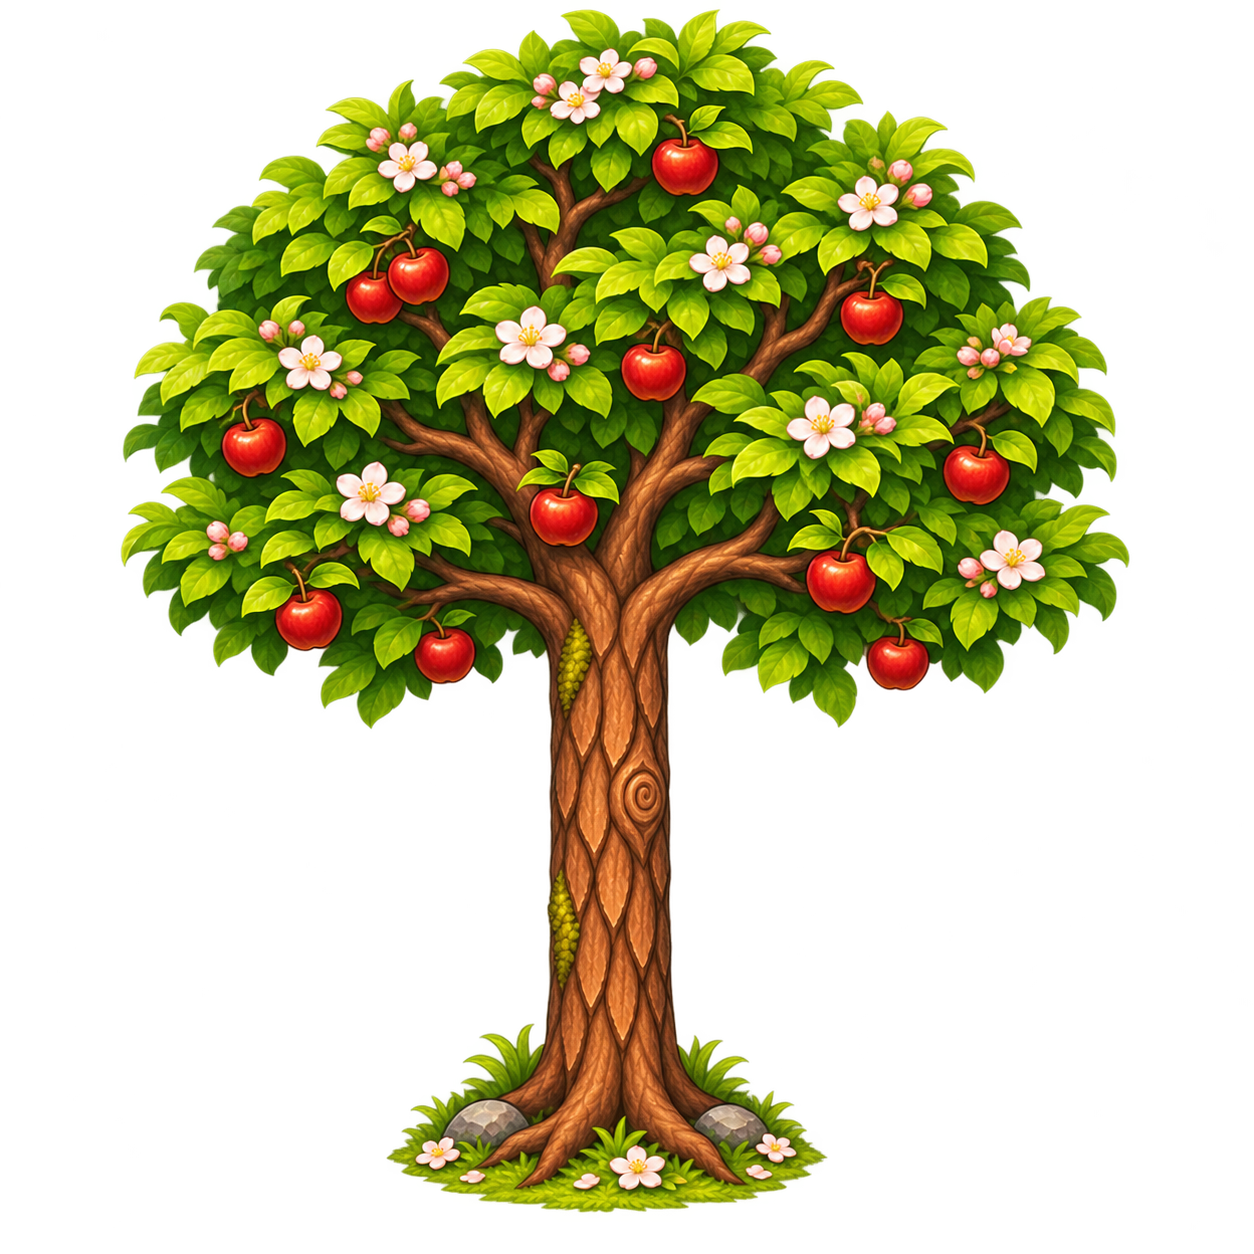
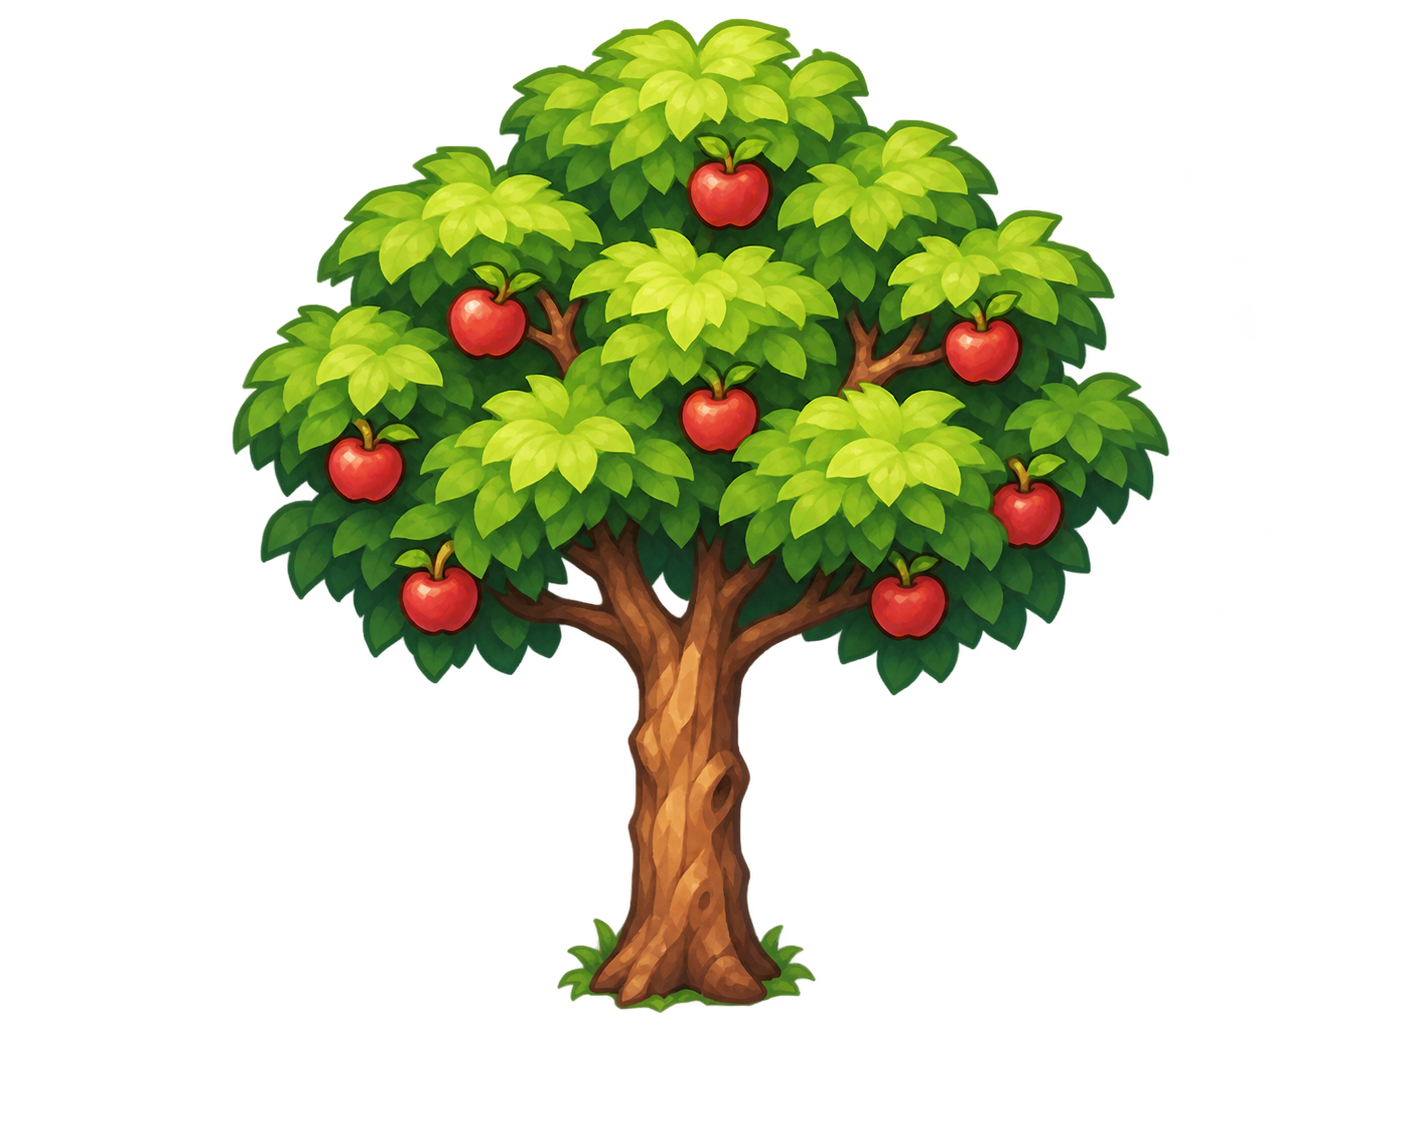
Macieira nova (com e sem maçãs) e florestas misturadas (v0.90.0)
Troca a macieira por 3 formas, carregada e colhida com arte própria na mesma escala. O mapa da Cidade 1 passa a
misturar carvalho, bétula, cerejeira e macieira nos dois biomas (altTrees; os sorteios anteriores não mudam, então
nada muda de lugar, só a espécie de algumas árvores) e nas árvores da cidade (sem macieira: protegida).

Claude-Session: https://claude.ai/code/session_01KGdgomm438trDHTLPLqJmv

diff --git a/src/world/trees.test.ts b/src/world/trees.test.ts
@@ -102,24 +102,31 @@ describe('Árvores adultas (carvalho, macieira, cerejeira; sem crescimento desde
     expect(applyAction(w, parseAction({ kind: 'pick', x, y })!)).toBe(true);
   });
 
-  it('Campos misturam macieiras e bétulas aos carvalhos (a macieira cai onde sempre caiu)', () => {
-    expect(BIOMES.meadow.altTrees).toEqual([{ id: Block.APPLE_TREE, share: 1 / 6 }, { id: Block.BIRCH_TREE, share: 1 / 5 }]);
+  it('o mundo mistura carvalho, bétula, cerejeira e macieira em qualquer bioma (a macieira e a bétula caem onde sempre caíram)', () => {
+    const all4 = new Set<number>([Block.OAK_TREE, Block.BIRCH_TREE, Block.SAKURA_TREE, Block.APPLE_TREE]);
+    for (const b of [BIOMES.meadow, BIOMES.sakura]) {
+      expect(new Set([b.tree, ...(b.altTrees ?? []).map((t) => t.id)])).toEqual(all4);
+      expect(b.altTrees!.slice(0, 2)).toEqual([{ id: Block.APPLE_TREE, share: 1 / 6 }, { id: Block.BIRCH_TREE, share: 1 / 5 }]);
+    }
     const w = new World(42);
-    let oak = 0, apple = 0, birch = 0;
-    for (let y = -150; y < 150; y++) {
-      for (let x = -150; x < 150; x++) {
+    const n = new Map<number, number>();
+    for (let y = -250; y < 250; y++) {
+      for (let x = -250; x < 250; x++) {
         const id = w.getObject(x, y);
-        if (id === Block.OAK_TREE) oak++;
-        if (id === Block.APPLE_TREE) apple++;
-        if (id === Block.BIRCH_TREE) birch++;
+        if (all4.has(id)) n.set(id, (n.get(id) ?? 0) + 1);
       }
     }
-    const all = oak + apple + birch;
-    expect(apple / all).toBeGreaterThan(0.1);
-    expect(apple / all).toBeLessThan(0.25);
-    expect(birch / all).toBeGreaterThan(0.1);
-    expect(birch / all).toBeLessThan(0.25);
-    expect(oak).toBeGreaterThan(apple);
+    const total = [...n.values()].reduce((a, b) => a + b, 0);
+    for (const id of all4) expect((n.get(id) ?? 0) / total, `espécie ${id}`).toBeGreaterThan(0.08);
+    expect((n.get(Block.APPLE_TREE) ?? 0) / total).toBeLessThan(0.25);
+  });
+
+  it('as árvores da cidade são cerejeira, bétula e carvalho (sem macieira: protegida, não dá para colher)', () => {
+    const all4 = new Set<number>([Block.OAK_TREE, Block.BIRCH_TREE, Block.SAKURA_TREE, Block.APPLE_TREE]);
+    const t = new World(42).town!;
+    const seen = new Set<number>();
+    for (const id of t.objects) if (all4.has(id)) seen.add(id);
+    expect(seen).toEqual(new Set([Block.OAK_TREE, Block.BIRCH_TREE, Block.SAKURA_TREE]));
   });
 
   it('bétula: derrubada dá 2–3 Toras de Bétula; tora vira 2 tábuas; as duas são madeira (batente) e substituem a água', () => {

diff --git a/src/render/textures.ts b/src/render/textures.ts
@@ -520,13 +520,13 @@ function waterTile(variant: number): HTMLCanvasElement {
 // ---------------------------------------------------------------- árvores e enfeites
 
 /** Quadros de cada tira de árvore adulta (`scripts/process-trees.py`): a variante de cada árvore é sorteada pela posição. */
-const TREE_FRAMES = { oak: 3, apple: 2, cherry: 3, birch: 3 } as const;
+const TREE_FRAMES = { oak: 3, apple: 3, appleBare: 3, cherry: 3, birch: 3 } as const;
 /** Largura da árvore em células de mundo (o quadro tem a árvore mais larga da espécie de ponta a ponta). */
 const TREE_CELLS = 3.4;
 
 /**
  * Árvores adultas e cacto (v0.88.0, sem crescimento): carvalho, macieira e cerejeira vêm em tiras de variantes (formas
- * diferentes; a macieira colhida usa a mesma arte da carregada), o cacto, da prancha 4 × 2. Sem a arte, ficam as pintadas.
+ * diferentes; a macieira colhida tem as mesmas formas, sem as maçãs), o cacto, da prancha 4 × 2. Sem a arte, ficam as pintadas.
  */
 function growthTreeSprites(
   art: TreeArt | null, objects: Map<BlockId, Sprite>,
@@ -535,6 +535,7 @@ function growthTreeSprites(
   if (!art) return variants;
   const oak = stripSprites(art.oak, TREE_FRAMES.oak, T * TREE_CELLS, 6);
   const apple = stripSprites(art.apple, TREE_FRAMES.apple, T * TREE_CELLS, 6);
+  const appleBare = stripSprites(art.appleBare, TREE_FRAMES.appleBare, T * TREE_CELLS, 6);
   const cherry = stripSprites(art.cherry, TREE_FRAMES.cherry, T * TREE_CELLS, 6);
   const birch = stripSprites(art.birch, TREE_FRAMES.birch, T * TREE_CELLS, 6);
   const cactus = gridSprites(art.cactus, 4, 2, 1.7, 3);
@@ -544,7 +545,7 @@ function growthTreeSprites(
   };
   set(Block.OAK_TREE, oak);
   set(Block.APPLE_TREE, apple);
-  set(Block.APPLE_TREE_BARE, apple); // mesma variante por célula (mesma ordem): só falta a arte "colhida"
+  set(Block.APPLE_TREE_BARE, appleBare); // mesma forma e mesma ordem da carregada: a mesma variante por célula, só sem as maçãs
   set(Block.SAKURA_TREE, cherry);
   set(Block.BIRCH_TREE, birch);
   set(Block.CACTUS, cactus);

diff --git a/src/world/biomes.ts b/src/world/biomes.ts
@@ -21,12 +21,13 @@ export const BIOMES: Record<Biome['key'], Biome> = {
   meadow: {
     key: 'meadow', name: 'Campos Verdejantes', ground: Block.GRASS,
     tree: Block.OAK_TREE, treeDensity: 0.22,
-    altTrees: [{ id: Block.APPLE_TREE, share: 1 / 6 }, { id: Block.BIRCH_TREE, share: 1 / 5 }],
+    altTrees: [{ id: Block.APPLE_TREE, share: 1 / 6 }, { id: Block.BIRCH_TREE, share: 1 / 5 }, { id: Block.SAKURA_TREE, share: 1 / 4 }],
     decorations: [Block.TALL_GRASS, Block.TALL_GRASS, Block.FLOWER], decoChance: 0.12,
   },
   sakura: {
     key: 'sakura', name: 'Bosque de Sakura', ground: Block.GRASS,
     tree: Block.SAKURA_TREE, treeDensity: 0.3,
+    altTrees: [{ id: Block.APPLE_TREE, share: 1 / 6 }, { id: Block.BIRCH_TREE, share: 1 / 5 }, { id: Block.OAK_TREE, share: 1 / 4 }],
     decorations: [Block.FLOWER, Block.FLOWER, Block.TALL_GRASS], decoChance: 0.12,
   },
   desert: {
@@ -41,8 +42,8 @@ export const BIOMES: Record<Biome['key'], Biome> = {
 
 /**
  * Escolhe o bioma a partir de temperatura e umidade (ambas ~[-1, 1]). O mundo da Cidade do Despertar é só de
- * florestas (dono do produto, 2026-11-06): campos com carvalhos/macieiras e bosques de sakura, com rios, mares e areia
- * nas praias. As Dunas (e o cacto) ficam no projeto para o mundo árido de outra cidade, ligado por portal (ADR 0019).
+ * florestas (dono do produto, 2026-11-06): campos e bosques de sakura, com rios, mares e areia nas praias; desde a
+ * v0.90.0 as árvores se misturam nos dois (carvalho, bétula, cerejeira e macieira; a principal de cada bioma domina). As Dunas (e o cacto) ficam no projeto para o mundo árido de outra cidade, ligado por portal (ADR 0019).
  * `temperature` fica na assinatura para esses mundos futuros.
  */
 export function pickBiome(_temperature: number, moisture: number): Biome {

diff --git a/src/render/blockArt.ts b/src/render/blockArt.ts
@@ -33,7 +33,7 @@ let chest: HTMLImageElement | null = null;
 /** Objetos fabricados (fogueira, caldeirão, forno), por nome da arte. */
 const craftables = new Map<string, HTMLImageElement>();
 /** Pranchas de crescimento (carvalho, macieira, cacto). */
-export interface TreeArt { oak: HTMLImageElement; apple: HTMLImageElement; cherry: HTMLImageElement; birch: HTMLImageElement; cactus: HTMLImageElement }
+export interface TreeArt { oak: HTMLImageElement; apple: HTMLImageElement; appleBare: HTMLImageElement; cherry: HTMLImageElement; birch: HTMLImageElement; cactus: HTMLImageElement }
 let trees: TreeArt | null = null;
 /** Tira de pedregulhos. */
 let rocks: HTMLImageElement | null = null;
@@ -66,8 +66,8 @@ export async function loadBlockArt(): Promise<void> {
     fence = { pieces, gate };
   }
   if (a.trees) {
-    const [oak, apple, cherry, birch, cactus] = await Promise.all([load(a.trees.oak), load(a.trees.apple), load(a.trees.cherry), load(a.trees.birch), load(a.trees.cactus)]);
-    trees = { oak, apple, cherry, birch, cactus };
+    const [oak, apple, appleBare, cherry, birch, cactus] = await Promise.all([load(a.trees.oak), load(a.trees.apple), load(a.trees.appleBare), load(a.trees.cherry), load(a.trees.birch), load(a.trees.cactus)]);
+    trees = { oak, apple, appleBare, cherry, birch, cactus };
   }
   if (a.town) {
     const entries = Object.entries(a.town);

diff --git a/src/render/art/principal.ts b/src/render/art/principal.ts
@@ -159,6 +159,7 @@ import fenceGateIcon from '../../assets/icon-block-fence-gate.webp';
 import treeOak from '../../assets/tree-oak.webp';
 import treeApple from '../../assets/tree-apple.webp';
 import treeCactus from '../../assets/tree-cactus.webp';
+import treeAppleBare from '../../assets/tree-apple-bare.webp';
 import treeCherry from '../../assets/tree-cherry.webp';
 import treeBirch from '../../assets/tree-birch.webp';
 import birchLogIcon from '../../assets/icon-block-birch-log.webp';
@@ -333,7 +334,7 @@ const pack: ArtPack = {
     chair: { icon: chairIcon, sprite: chairSprite },
   },
   // Árvores adultas em tiras de variantes (scripts/process-trees.py); cacto: prancha 4 × 2 (scripts/extract-trees.py).
-  trees: { oak: treeOak, apple: treeApple, cherry: treeCherry, birch: treeBirch, cactus: treeCactus },
+  trees: { oak: treeOak, apple: treeApple, appleBare: treeAppleBare, cherry: treeCherry, birch: treeBirch, cactus: treeCactus },
   rocks,
   // Cerca de tábuas (scripts/extract-fence.py): peças emendadas por vizinhos + portão.
   fence: { pieces: fencePieces, gate: fenceGate, icon: fenceIcon, gateIcon: fenceGateIcon },

diff --git a/src/render/art/types.ts b/src/render/art/types.ts
@@ -63,7 +63,7 @@ export interface ArtPack {
    * Árvores adultas (v0.88.0, sem crescimento): tiras de variantes carvalho/macieira/cerejeira/bétula (`scripts/process-trees.py`,
    * quadros iguais lado a lado) e a prancha 4 × 2 do cacto (`scripts/extract-trees.py`).
    */
-  trees?: { oak: string; apple: string; cherry: string; birch: string; cactus: string };
+  trees?: { oak: string; apple: string; appleBare: string; cherry: string; birch: string; cactus: string };
   /** Interiores (`scripts/extract-interiors.py`), por id de `world/interiors.ts`; carregam em segundo plano. */
   interiors?: Record<string, string>;
   /** Cidade do Despertar: construções em imagem (`scripts/extract-town.py`); o resto é pintado em código. */

diff --git a/src/world/town.ts b/src/world/town.ts
@@ -531,7 +531,8 @@ function buildTown(): TownLayout {
     }
     const roomy = [-1, 0, 1].every((oy) => [-1, 0, 1].every((ox) => inside(x + ox, y + oy) && (use[idx(x + ox, y + oy)] === FREE)));
     if (roomy && r < 0.2 && y > 3) {
-      objects[i] = h(x, y, 6) < 0.3 ? Block.SAKURA_TREE : Block.OAK_TREE;
+      // Árvores da cidade misturadas (cerejeira, bétula e carvalho; sem macieira: na cidade protegida não dá para colher).
+      objects[i] = h(x, y, 6) < 0.3 ? Block.SAKURA_TREE : h(x, y, 7) < 0.4 ? Block.BIRCH_TREE : Block.OAK_TREE;
       use[i] = DECOR;
       rect(x - 1, y - 1, x + 1, y + 1, (_x, _y, j) => { if (use[j] === FREE) use[j] = RESERVED; });
     } else if (r < 0.34) objects[i] = Block.FLOWER;

diff --git a/src/world/blocks.ts b/src/world/blocks.ts
@@ -469,7 +469,7 @@ export const RETIRED_ITEMS: ReadonlySet<string> = new Set(['oak_sapling', 'apple
 
 /**
  * Macieira colhida volta a ter maçãs com o tempo (a única "espera" que sobrou das árvores; o `World` avança). A arte é a
- * mesma da macieira carregada (falta enviar a "macieira colhida").
+ * mesma forma da carregada, só sem as maçãs (arte própria desde a v0.90.0).
  */
 export const TREE_NEXT: Readonly<Partial<Record<number, BlockId>>> = {
   [Block.APPLE_TREE_BARE]: Block.APPLE_TREE,

diff --git a/scripts/process-trees.py b/scripts/process-trees.py
@@ -1,13 +1,15 @@
 #!/usr/bin/env python3
 """Monta a tira de variantes de uma espécie de árvore (adulta; sem estágios de crescimento — v0.88.0).
 
-Uso: python3 scripts/process-trees.py <especie> imagem1.png imagem2.png ... [--cut ALFA] [--width 420]
+Uso: python3 scripts/process-trees.py <especie> imagem1.png imagem2.png ... [--cut ALFA] [--width 420] [--scale S --frame LxA]
 Cada imagem é uma árvore adulta inteira em PNG com alfa (fundo transparente). O script:
 - guarda a imagem original em assets-src/arvores/<especie>/NN.png (fonte; nada é perdido);
 - limpa o alfa (--cut zera brilhos/halos semitransparentes de fundo abaixo desse alfa; abertura remove pontinhos soltos
   que sobraram do recorte) e recorta o miolo;
 - reduz todas pela MESMA escala (a árvore mais larga fica com --width px), mantendo as proporções entre as variantes;
 - cola lado a lado, alinhadas pelo pé e centradas, em quadros iguais → src/assets/tree-<especie>.webp.
+Duas tiras que precisam casar quadro a quadro (macieira carregada × colhida) usam a mesma escala e o mesmo quadro: rode a primeira,
+leia "escala" e "quadro" no relatório e passe `--scale` e `--frame` à segunda.
 O jogo lê a quantidade de quadros e a proporção de textures.ts (TREE_FRAMES); a variante de cada árvore é sorteada pela
 posição (hash), então o mesmo mapa sempre sai igual. Depois: nada de optimize-assets (já sai em WebP).
 """
@@ -42,6 +44,8 @@ def main() -> int:
     ap.add_argument('files', nargs='+')
     ap.add_argument('--cut', type=int, default=0)
     ap.add_argument('--width', type=int, default=420)
+    ap.add_argument('--scale', type=float, default=0, help='escala fixa (em vez de --width)')
+    ap.add_argument('--frame', default='', help='quadro fixo LxA (em vez do calculado)')
     args = ap.parse_args()
     src_dir = ROOT / 'assets-src' / 'arvores' / args.species
     src_dir.mkdir(parents=True, exist_ok=True)
@@ -49,10 +53,13 @@ def main() -> int:
     for i, f in enumerate(args.files, 1):
         shutil.copyfile(f, src_dir / f'{i:02d}.png')
         trees.append(clean(Image.open(f), args.cut))
-    s = args.width / max(t.width for t in trees)
+    s = args.scale or args.width / max(t.width for t in trees)
     small = [t.resize((max(1, round(t.width * s)), max(1, round(t.height * s))), Image.LANCZOS) for t in trees]
     fw = max(t.width for t in small) + 4
     fh = max(t.height for t in small) + 4
+    if args.frame:
+        fw, fh = (int(v) for v in args.frame.lower().split('x'))
+        assert all(t.width <= fw and t.height <= fh - 2 for t in small), 'quadro fixo pequeno demais'
     sheet = Image.new('RGBA', (fw * len(small), fh), (0, 0, 0, 0))
     for i, t in enumerate(small):
         sheet.alpha_composite(t, (i * fw + (fw - t.width) // 2, fh - 2 - t.height))

diff --git a/docs/CURRENT_STATE.md b/docs/CURRENT_STATE.md
@@ -10,16 +10,16 @@ uma seção por versão) e registre a mudança no `CHANGELOG`.
 ## Versões e números de referência
 | Item | Valor | Fonte |
 |---|---|---|
-| Versão do jogo | 0.89.0 | `package.json` |
+| Versão do jogo | 0.90.0 | `package.json` |
 | `PROTOCOL_VERSION` (multiplayer) | 18 | `src/net/protocol.ts` |
 | `SAVE_VERSION` (salvamento local) | 11 | `src/game/save.ts` |
-| Testes | 242 em 45 arquivos (Vitest), todos passando | `npm test` |
-| Orçamento de início (ADR 0013) | ~2,7 MB de 3 MB (v0.89.0: árvores novas e a bétula) | build do artifact |
+| Testes | 243 em 45 arquivos (Vitest), todos passando | `npm test` |
+| Orçamento de início (ADR 0013) | ~2,9 MB de 3 MB (v0.90.0: macieira nova com a colhida) — **no limite** | build do artifact |
 | Dependências | Vite 7, Vitest 5, TypeScript 5.9; Node ≥ 22.12 | `package.json` |
 
 ## Mundos
 - **Orvalis (principal)**: gerado por seed (`?seed=`), chunks 16×16 nos dois eixos, vista 3/4. Mundo da Cidade 1: só
-  **florestas** (Campos com carvalhos e macieiras, Bosque de Sakura), rios, mares, praias, montanhas, pedregulhos
+  **florestas** (Campos e Bosque de Sakura, com carvalho, bétula, cerejeira e macieira misturados), rios, mares, praias, montanhas, pedregulhos
   (ADR 0019). Abre numa **tela de entrada** (Novo jogo → montar personagem; Continuar se houver salvamento).
 - **Santuário Celestial da Deusa da Vida** (`?mundo=santuario`): 10 chunks de nuvem, só a Deusa, só os 18 blocos
   celestiais; sem ferramentas, cultivo ou animais. Subdomínio real ainda não hospedado (`domains/worlds.md`).
@@ -50,7 +50,7 @@ uma seção por versão) e registre a mudança no `CHANGELOG`.
   mundos e bolsas antigos viram vazio). Porta entre dois batentes (bloco de madeira ou de pedra), cerca e portão que emendam pelos vizinhos, baú de 27 espaços, tenda
   (ponto de renascer, com interior). Água inquebrável que enche buracos vizinhos; buraco sem bloco por um dia inteiro ganha o chão de um vizinho.
 - **Cultivo e árvores**: trigo, batata, tomate e cenoura (só em Terra Arada); árvores só adultas e de formas variadas
-  (carvalho, macieira, bétula, cerejeira; sem mudas nem crescimento desde a v0.88.0) e maçãs colhíveis (a macieira colhida volta a dar).
+  (carvalho, macieira, bétula, cerejeira; sem mudas nem crescimento desde a v0.88.0) e maçãs colhíveis (a macieira colhida, com arte própria, volta a dar).
 - **Chunk do muro**: todo chunk com pedaço da muralha da cidade é protegido por inteiro (v0.88.0; `World.isProtected`).
 - **Animais**: ovelha, cavalo, vaca e galinha no campo ao sul do portão; comem, namoram (corações), têm filhotes que
   crescem e **seguem quem os alimentou**; vaca dá leite e galinha ovo ao comer. Sem montaria; golpe de espada os faz
@@ -119,7 +119,7 @@ uma seção por versão) e registre a mudança no `CHANGELOG`.
   não houver mais pedras aposentadas em uso (`NEXT_STEPS`, Fase V).
 
 ## Qualidade e desempenho
-- `npx tsc --noEmit` limpo; 242 testes passando; `npm audit` sem vulnerabilidades moderadas ou piores (CI).
+- `npx tsc --noEmit` limpo; 243 testes passando; `npm audit` sem vulnerabilidades moderadas ou piores (CI).
 - Geração de chunk ~0,08 ms; render ~0,4 ms/quadro (Chromium headless). Números atuais: `npm run bench`.
 - **Cena de escala** (`?escala=1`, só em desenvolvimento, ADR 0022): comparação visual de sprites no renderizador real; ver `OPERATIONS.md`.
 - Artefatos só com a arte do próprio mundo (ADR 0010), imagens em arquivos separados (ADR 0013); arte de dungeon e

diff --git a/docs/domains/farming.md b/docs/domains/farming.md
@@ -111,16 +111,16 @@
 - Colher = quebrar segurando (2 s com a mão/item, 1 s com ferramenta — mesma regra de qualquer quebra).
 
 ## Árvores (adultas e variadas; sem crescimento desde a v0.88.0; `world/blocks.ts`, `world/world.ts`, `world/items.ts`)
-- **Só adultas**: carvalho (3 formas), macieira (2), bétula (3, v0.89.0) e cerejeira (3); a forma de cada árvore é sorteada pela posição (hash) em
+- **Só adultas**: carvalho (3 formas), macieira (3, carregada e colhida), bétula (3, v0.89.0) e cerejeira (3); a forma de cada árvore é sorteada pela posição (hash) em
   `render/textures.ts` (`growthTreeSprites`, tiras de `scripts/process-trees.py`). Não há mudas, plantio nem estágios: os
   ids antigos (`OAK_SAPLING/YOUNG/GROWING`, `APPLE_SAPLING/YOUNG`) seguem reservados e viram a árvore adulta da espécie ao
   carregar (`GROWTH_STAGE_ADULT`, `adultOfStage`, em `restoreChunk`/`setLevel`); os itens `oak_sapling`/`apple_sapling`
   somem de bolsas, grades e baús (`RETIRED_ITEMS`, `isRemovedStack`).
 - **Macieira**: tocar numa macieira com maçãs (`World.canPick/pick`) solta 2–3 Maçãs e ela vira a **colhida**
   (`APPLE_TREE_BARE`); as maçãs voltam com `dt / FRUIT_REGROW_SECONDS` (150 s) — a única espera que sobrou (`TREE_NEXT`).
-  A arte da colhida é a mesma da carregada (falta enviar a "macieira colhida"). Derrubar a macieira carregada também solta as maçãs.
+  A colhida tem arte própria (v0.90.0: 3 formas, na mesma ordem e escala da carregada, então a forma de cada célula não muda ao colher). Derrubar a macieira carregada também solta as maçãs.
 - **O que cai**: carvalho e macieira → 2–3 Toras de Carvalho; **Cerejeira → 2–3 Toras de Cerejeira**; **Bétula → 2–3 Toras de Bétula**; macieira carregada → também maçãs.
-- Gerador: carvalhos dos Campos com 1/6 de macieiras e ~1/6 de bétulas (`Biome.altTrees`, sorteadas na ordem com sal próprio: acrescentar uma no fim não move as anteriores); as cerejeiras do bioma e da cidade são as mesmas, só com arte nova.
+- Gerador: carvalhos dos Campos com macieiras, bétulas e cerejeiras (`Biome.altTrees`: 1/6, 1/5 e 1/4 sorteados na ordem; no Bosque de Sakura, macieira, bétula e carvalho; cidade: cerejeira, bétula e carvalho; sorteadas na ordem com sal próprio: acrescentar uma no fim não move as anteriores); as cerejeiras do bioma e da cidade são as mesmas, só com arte nova.
 
 ## Inventário e coleta (`game/`)
 - `Inventory`: quantidades de itens; começa com 5 sementes e 2 trigos. Não persistido.

diff --git a/docs/adr/0024-arvores-adultas-cerejeira-chunk-do-muro.md b/docs/adr/0024-arvores-adultas-cerejeira-chunk-do-muro.md
@@ -15,7 +15,7 @@ proibir construir no chunk onde está o muro do castelo.
   de muda somem das bolsas (`RETIRED_ITEMS`), como foi com as paredes. Mesma abordagem de compatibilidade, sem subir
   `SAVE_VERSION` nem `PROTOCOL_VERSION` (nenhum formato muda).
 - **A macieira colhida continua voltando a dar maçãs** (`APPLE_TREE_BARE` → `APPLE_TREE`): não é crescimento da árvore e sem
-  isso a maçã seria finita. A arte da colhida é a da carregada até chegar a ilustração.
+  isso a maçã seria finita. A colhida usou a arte da carregada até a v0.90.0 (arte própria, mesma forma).
 - **Formas variadas**: tira de quadros por espécie (`scripts/process-trees.py`), forma sorteada pela posição (hash), sem
   aleatório — o mesmo mapa sempre sai igual. Todas as formas de uma espécie na mesma escala, alinhadas pelo pé.
 - **Madeira de cerejeira**: `CHERRY_LOG` (230) e `CHERRY_PLANKS` (231) entram em `MATERIALS` depois das pedras (só V2: o atlas
@@ -30,6 +30,14 @@ proibir construir no chunk onde está o muro do castelo.
   de todas as seeds troca alguns carvalhos por bétulas, nada mais se move). Tora de Bétula (topo e frente) e Tábuas de
   Bétula (só o topo); a Bétula derrubada dá Toras de Bétula; 1 tora = 2 tábuas.
 - **Baú, porta, cadeira e cerca continuam só de carvalho** (dono do produto); versões de outras madeiras ficam para depois.
+
+## Adendo — macieira nova e florestas misturadas (v0.90.0)
+- Macieira com 3 formas, carregada e colhida (`tree-apple.webp`/`tree-apple-bare.webp`, mesma escala e quadro:
+  `process-trees.py --scale/--frame`); a colhida de cada célula é a mesma forma da carregada.
+- **Regra de mistura** (dono do produto): o mapa da Cidade 1 mistura carvalho, bétula, cerejeira e macieira. `Biome.altTrees`:
+  Campos = carvalho + macieira 1/6 + bétula 1/5 + cerejeira 1/4; Bosque de Sakura = cerejeira + macieira 1/6 + bétula 1/5 +
+  carvalho 1/4 (os dois primeiros sorteios não mudam, então macieiras e bétulas dos Campos ficam onde estavam). Árvores
+  da cidade: cerejeira 30%, bétula ~28%, carvalho ~42% (sem macieira: protegida, não dá para colher).
 
 ## Consequências
 - Mundos e salas antigos: mudas e jovens viram adultas; mudas na bolsa somem; construções já feitas nos chunks do muro ficam.
